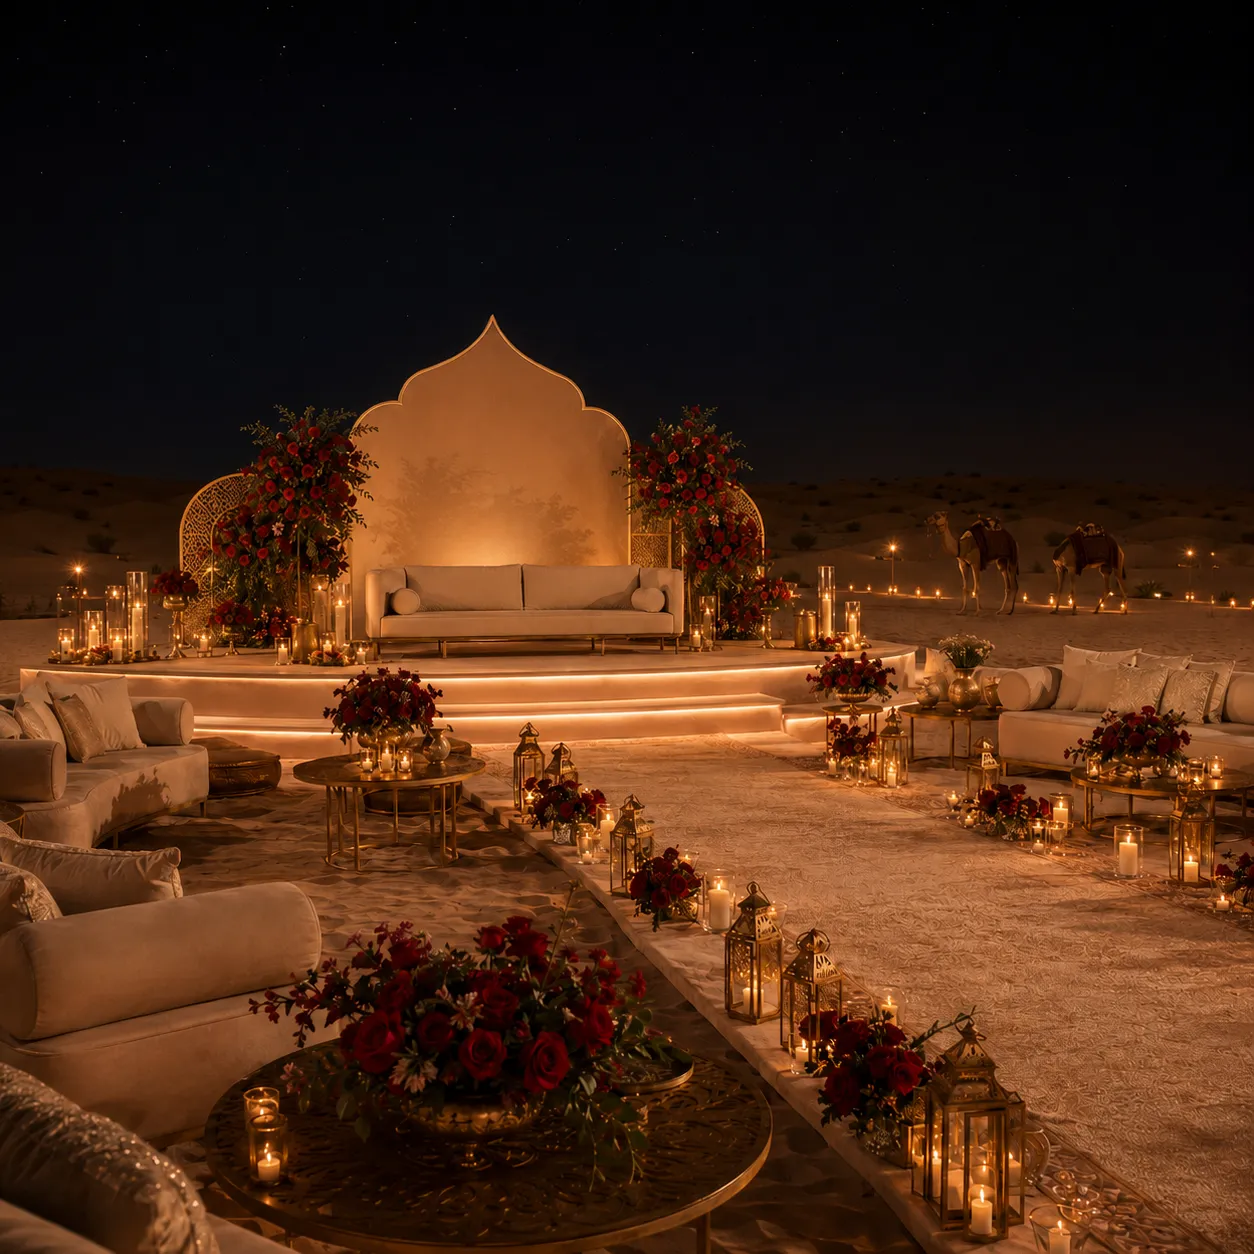
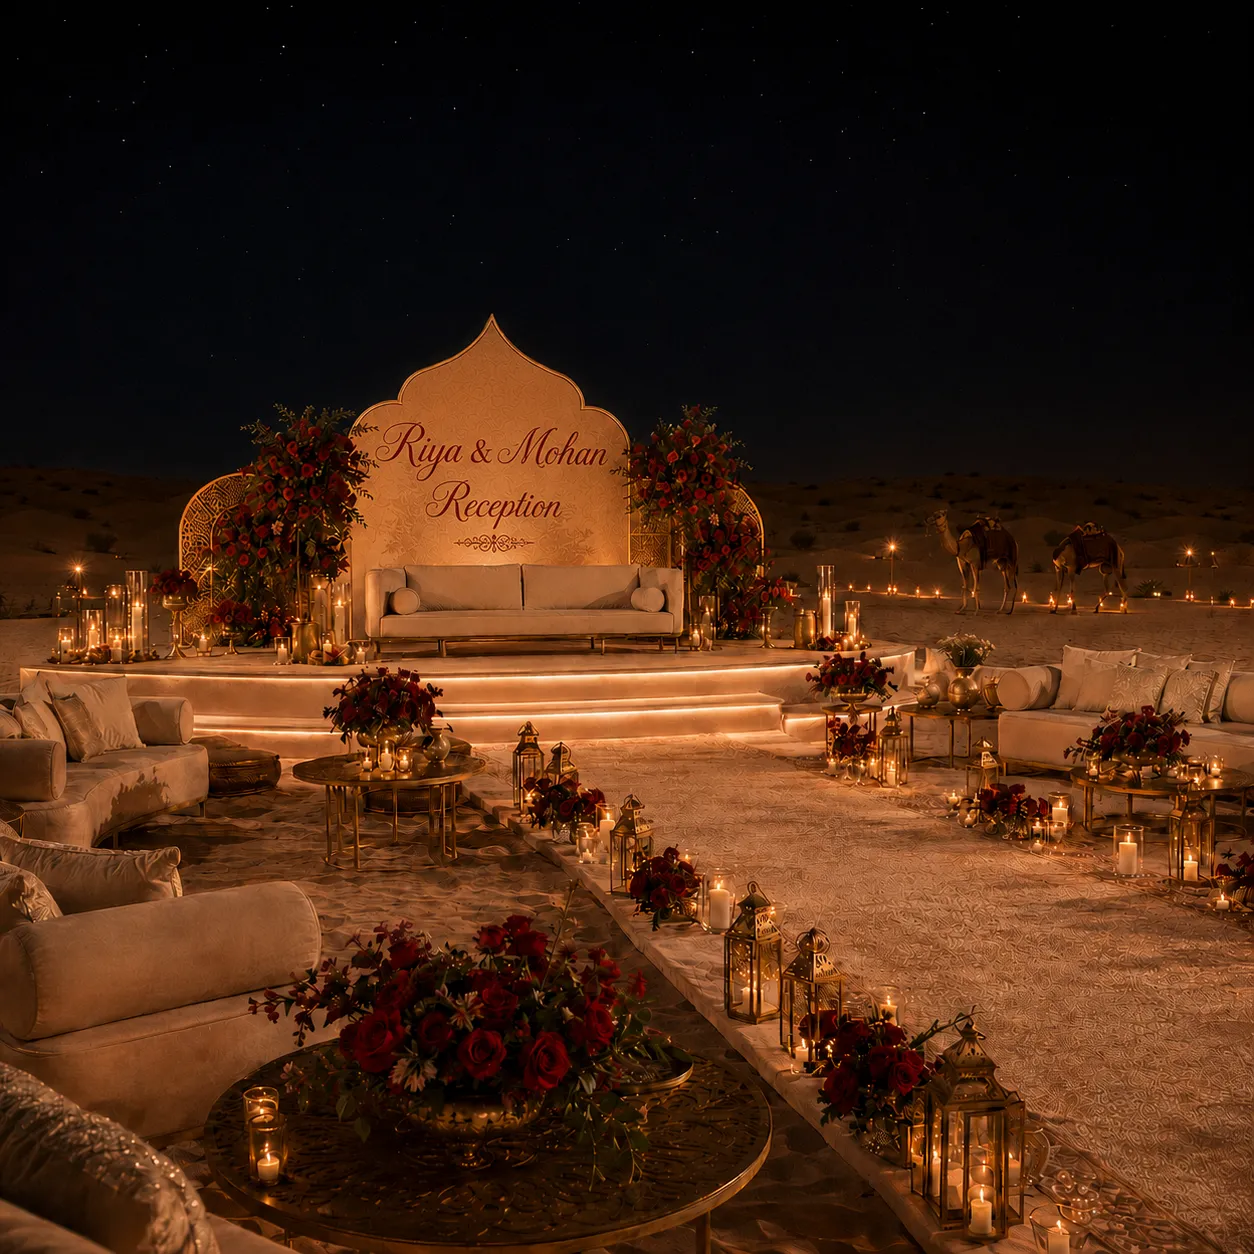
fix: images and ui

diff --git a/src/lib/content/service-details.ts b/src/lib/content/service-details.ts
@@ -896,8 +896,13 @@ export const serviceDetails: Record<string, ServiceDetail> = {
         "Grand floral stages, mandaps, and statement backdrops",
         "Elegant entrances, ceremonial aisles, and welcome décor",
         "Luxury tablescapes and family seating arrangements",
-        "Colourful lighting, draping, lanterns, and decorative details",
+        "Colourful lighting, draping, floral installations, and decorative details",
         "Custom themes, colour palettes, and cultural styling",
+        "Haldi, Mayun, Dholki, and Gaye Holud décor settings",
+        "Baraat entrances, Janti welcome areas, and Rukhsati pathways",
+        "Swayamvar stages, Roka, and traditional ceremony décor",
+        "Akht, Bou Bhat, engagement, and family celebration setups",
+        "Traditional Pakistani, Nepali, Bangladeshi, Indian, and multicultural wedding styling",
       ],
       outro:
         "Every South Asian wedding setup in Dubai is thoughtfully designed to honour your traditions and create a warm, memorable experience for every guest.",
